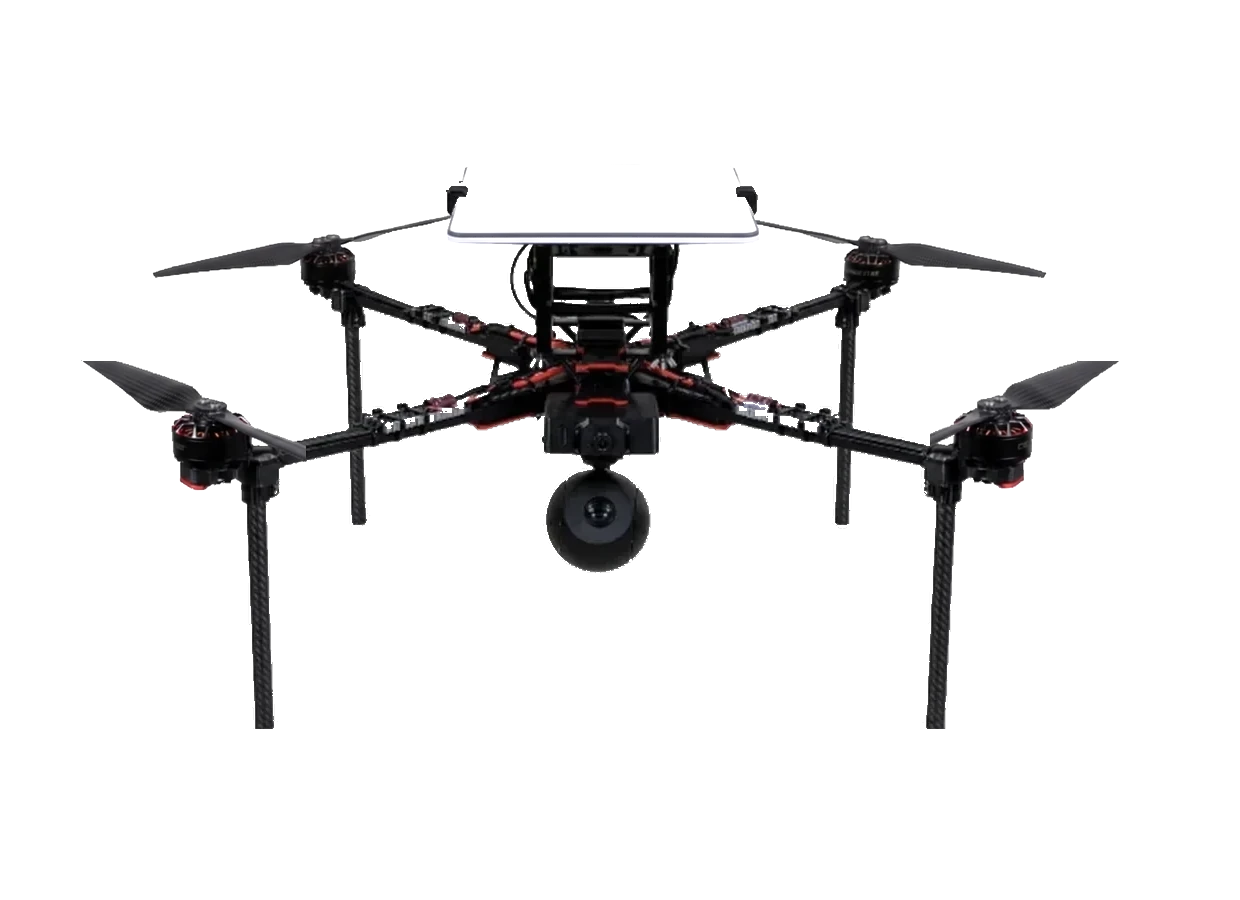
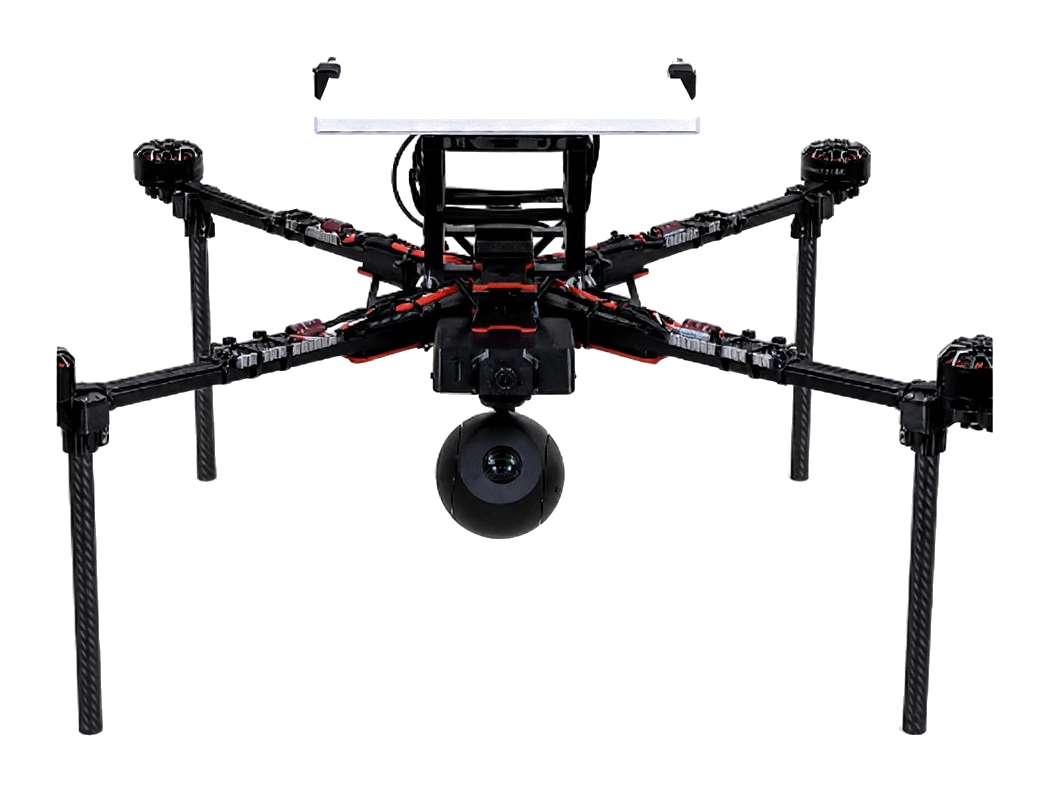
Розвідник: фото з продуктового листа замість домальованого
- взято оригінальне фото з recon-print-sheet.pdf: ціла антена Starlink,
  мотори без пропелерів, нічого не зрізано
- апскейл 2x (1000x780), фон вирізано, зібрано кадри для обкладинки й плиток
- виноски на кресленні переставлено під справжню геометрію

diff --git a/zhnets-recon.html b/zhnets-recon.html
@@ -668,9 +668,9 @@ html.hdr-sc .topbar{border-bottom-width:0;visibility:hidden;pointer-events:none}
         <div class="drawing">
           <div class="drawing-zoom">
           <img src="assets/img/zhrecon.webp" alt="Розвідувальний «Жнець», вигляд спереду" width="900" height="900" loading="lazy">
-          <button type="button" class="callout" data-callout="0" style="left:50%;top:48%" aria-label="01: Камера">01</button>
-          <button type="button" class="callout" data-callout="1" style="left:50%;top:31.5%" aria-label="02: Керування та навігація">02</button>
-          <button type="button" class="callout" data-callout="2" style="left:86.5%;top:52.3%" aria-label="03: Мотори та живлення">03</button>
+          <button type="button" class="callout" data-callout="0" style="left:48%;top:54%" aria-label="01: Камера">01</button>
+          <button type="button" class="callout" data-callout="1" style="left:48.3%;top:23.5%" aria-label="02: Керування та навігація">02</button>
+          <button type="button" class="callout" data-callout="2" style="left:80%;top:27.5%" aria-label="03: Мотори та живлення">03</button>
           </div>
         </div>
         <ol class="pin-rail" id="pin-rail" aria-label="Етапи"></ol>
